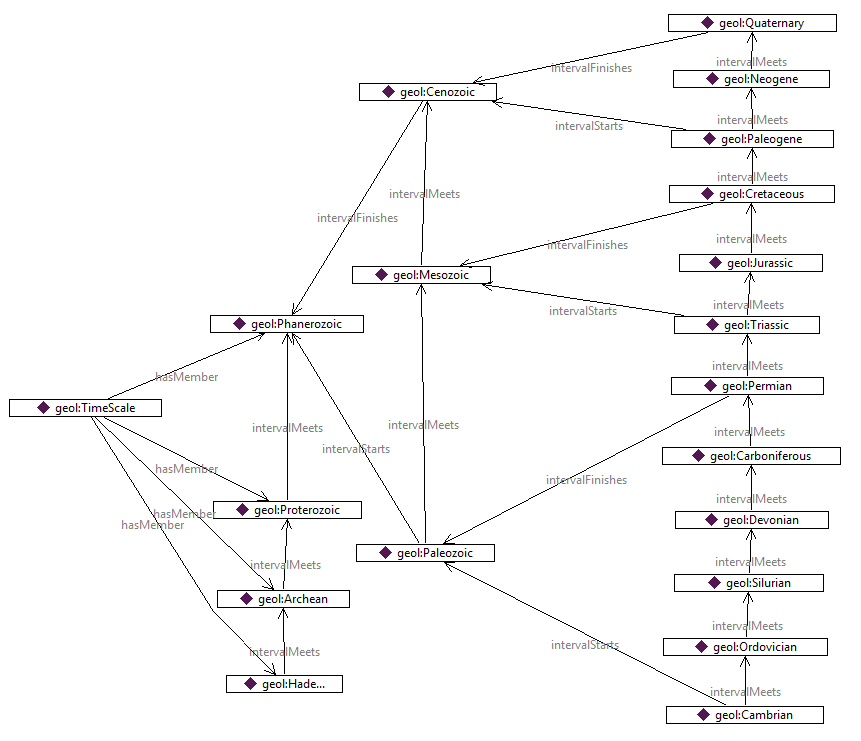
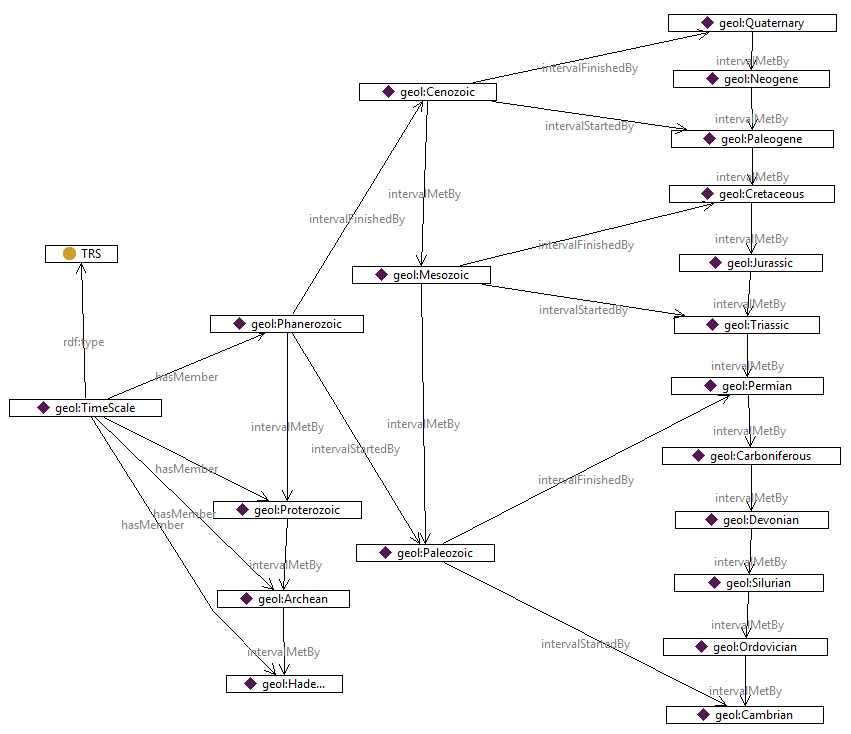
Tweaked use of interval properties in geological timescale to better reflect direction of knowledge

diff --git a/index.html b/index.html
@@ -1869,7 +1869,7 @@ DIV.test H4 {
           </tr>
         </tbody>
       </table>
-      <p>The class <code>TRS</code> is for temporal reference systems. No specific properties are provided for the class <code>TRS</code>, the definition of which is beyond the scope of this ontology. Nevertheless, an ordinal temporal reference system, such as the geologic timescale, may be represented using the ontology as a set of <code>ProperInterval</code>s, along with enough inter-relationships to support the necessary ordering relationships. For example, Fig. 5 shows how this can be accomplished using just <code>intervalMeets</code>, <code>intervalStarts</code>, <code>intervalFinishes</code>. </p>
+      <p>The class <code>TRS</code> is for temporal reference systems. No specific properties are provided for the class <code>TRS</code>, the definition of which is beyond the scope of this ontology. Nevertheless, an ordinal temporal reference system, such as the geologic timescale, may be represented using the ontology as a set of <code>ProperInterval</code>s, along with enough inter-relationships to support the necessary ordering relationships. For example, Fig. 5 shows how this can be accomplished using just <code>intervalMetBy</code>, <code>intervalStartedBy</code>, <code>intervalFinishedBy</code>. </p>
       <img  title="(Part of) the international chronostratigraphic chart, formalized as a set of proper intervals"
          src="images/GeologicTimescale-1.png">
       <div  style="text-align: center;">Fig. 5 Part of the geologic timescale formalized as ProperIntervals, with ordering relationships described using the predicates defined in this ontology.&nbsp; </div>
